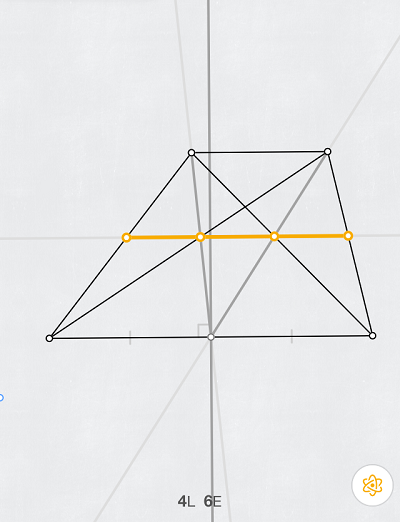
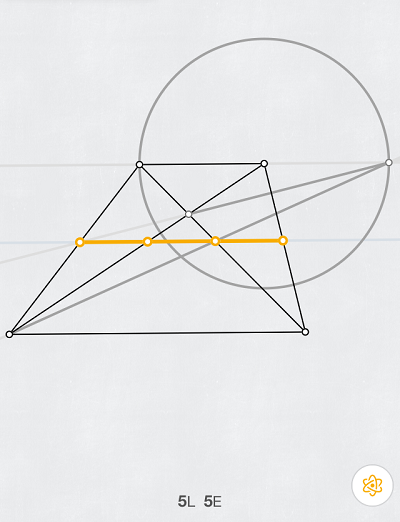
Add 8.8 5E solution.

diff --git a/v1/Euclidea3.md b/v1/Euclidea3.md
@@ -192,7 +192,7 @@
 解：[3L5E，连接C点和两点连线的中点。](solving/5.4.png)  
 
 - 5.5 梯形两底的算术平均 *2L 5E*  
-解：[2L，高的中垂线即为所求线。](solving/5.5.1.png)   
+解：[2L，高的中垂线即为所求线。](solving/5.5.1.png)  
 解：[5E，在边上取合适的任意点画圆交梯形底边于两点，利用位似原理。](solving/5.5.2.png)  
 
 - 5.6 哈希 *2L 4E 2V* ⭐  
@@ -340,7 +340,7 @@
 
 - 8.8 由梯形对角线三等分的线段 *3L 6E 2V* ⭐  
 解：[3L，找到底边中点，连线后过中间交点作底边的平行线即可。](solving/8.8.1.png)  
-解：[6E，也是先找底边中点，和上底边的两个端点连线，连接中间交点。](solving/8.8.2.png)  
+解：[5E，可以计算出线段与上底和下底的距离比为两倍上底比上下底，据此做图。](solving/8.8.2.png)  
 注：[2V，如图，作出全部两个解得到隐藏星星。](solving/8.8.3.png)  
 
 - 8.9 最小周长 - 2 *6L 8E*  

diff --git a/8.Theta.md b/8.Theta.md
@@ -48,12 +48,12 @@
 - *2V*解题思路：【待补充】。[参考图](solved/8.7.2V.png)
 
 
-##### 8.8 Trisection by Trapezoid Diagonals *目标：3L 6E 2V*
+##### 8.8 Trisection by Trapezoid Diagonals *目标：3L 5E 2V*
 - [查看题目](images/level/trapezoid-cut3.png) 
 + *3L*步骤：垂分，线，垂线
 - *3L*解题思路：【待补充】。[参考图](solved/8.8.3L.png)
-+ *6E*步骤：垂分，线，线，线
-- *6E*解题思路：【待补充】。[参考图](solved/8.8.6E.png)
++ *5E*步骤：线，圆，线，线，线
+- *5E*解题思路：【待补充】。[参考图](solved/8.8.5E.png)
 - *2V*解题思路：【待补充】。[参考图](solved/8.8.2V.png)
 
 

diff --git a/README.md b/README.md
@@ -12,6 +12,7 @@
 - [v1版本链接(全最优解更新完成)](https://mathsfans.github.io/Euclidea/v1/)  
 
 重要解法更新：
+- (2017-02-28) 8.8 5E新纪录解法  
 - (2017-01-19) 5.5 5E新纪录解法  
 - (2016-12-02) 7.3 3L新纪录解法  
 - (2016-12-02) v1版本解法更正，文字描述更新  
